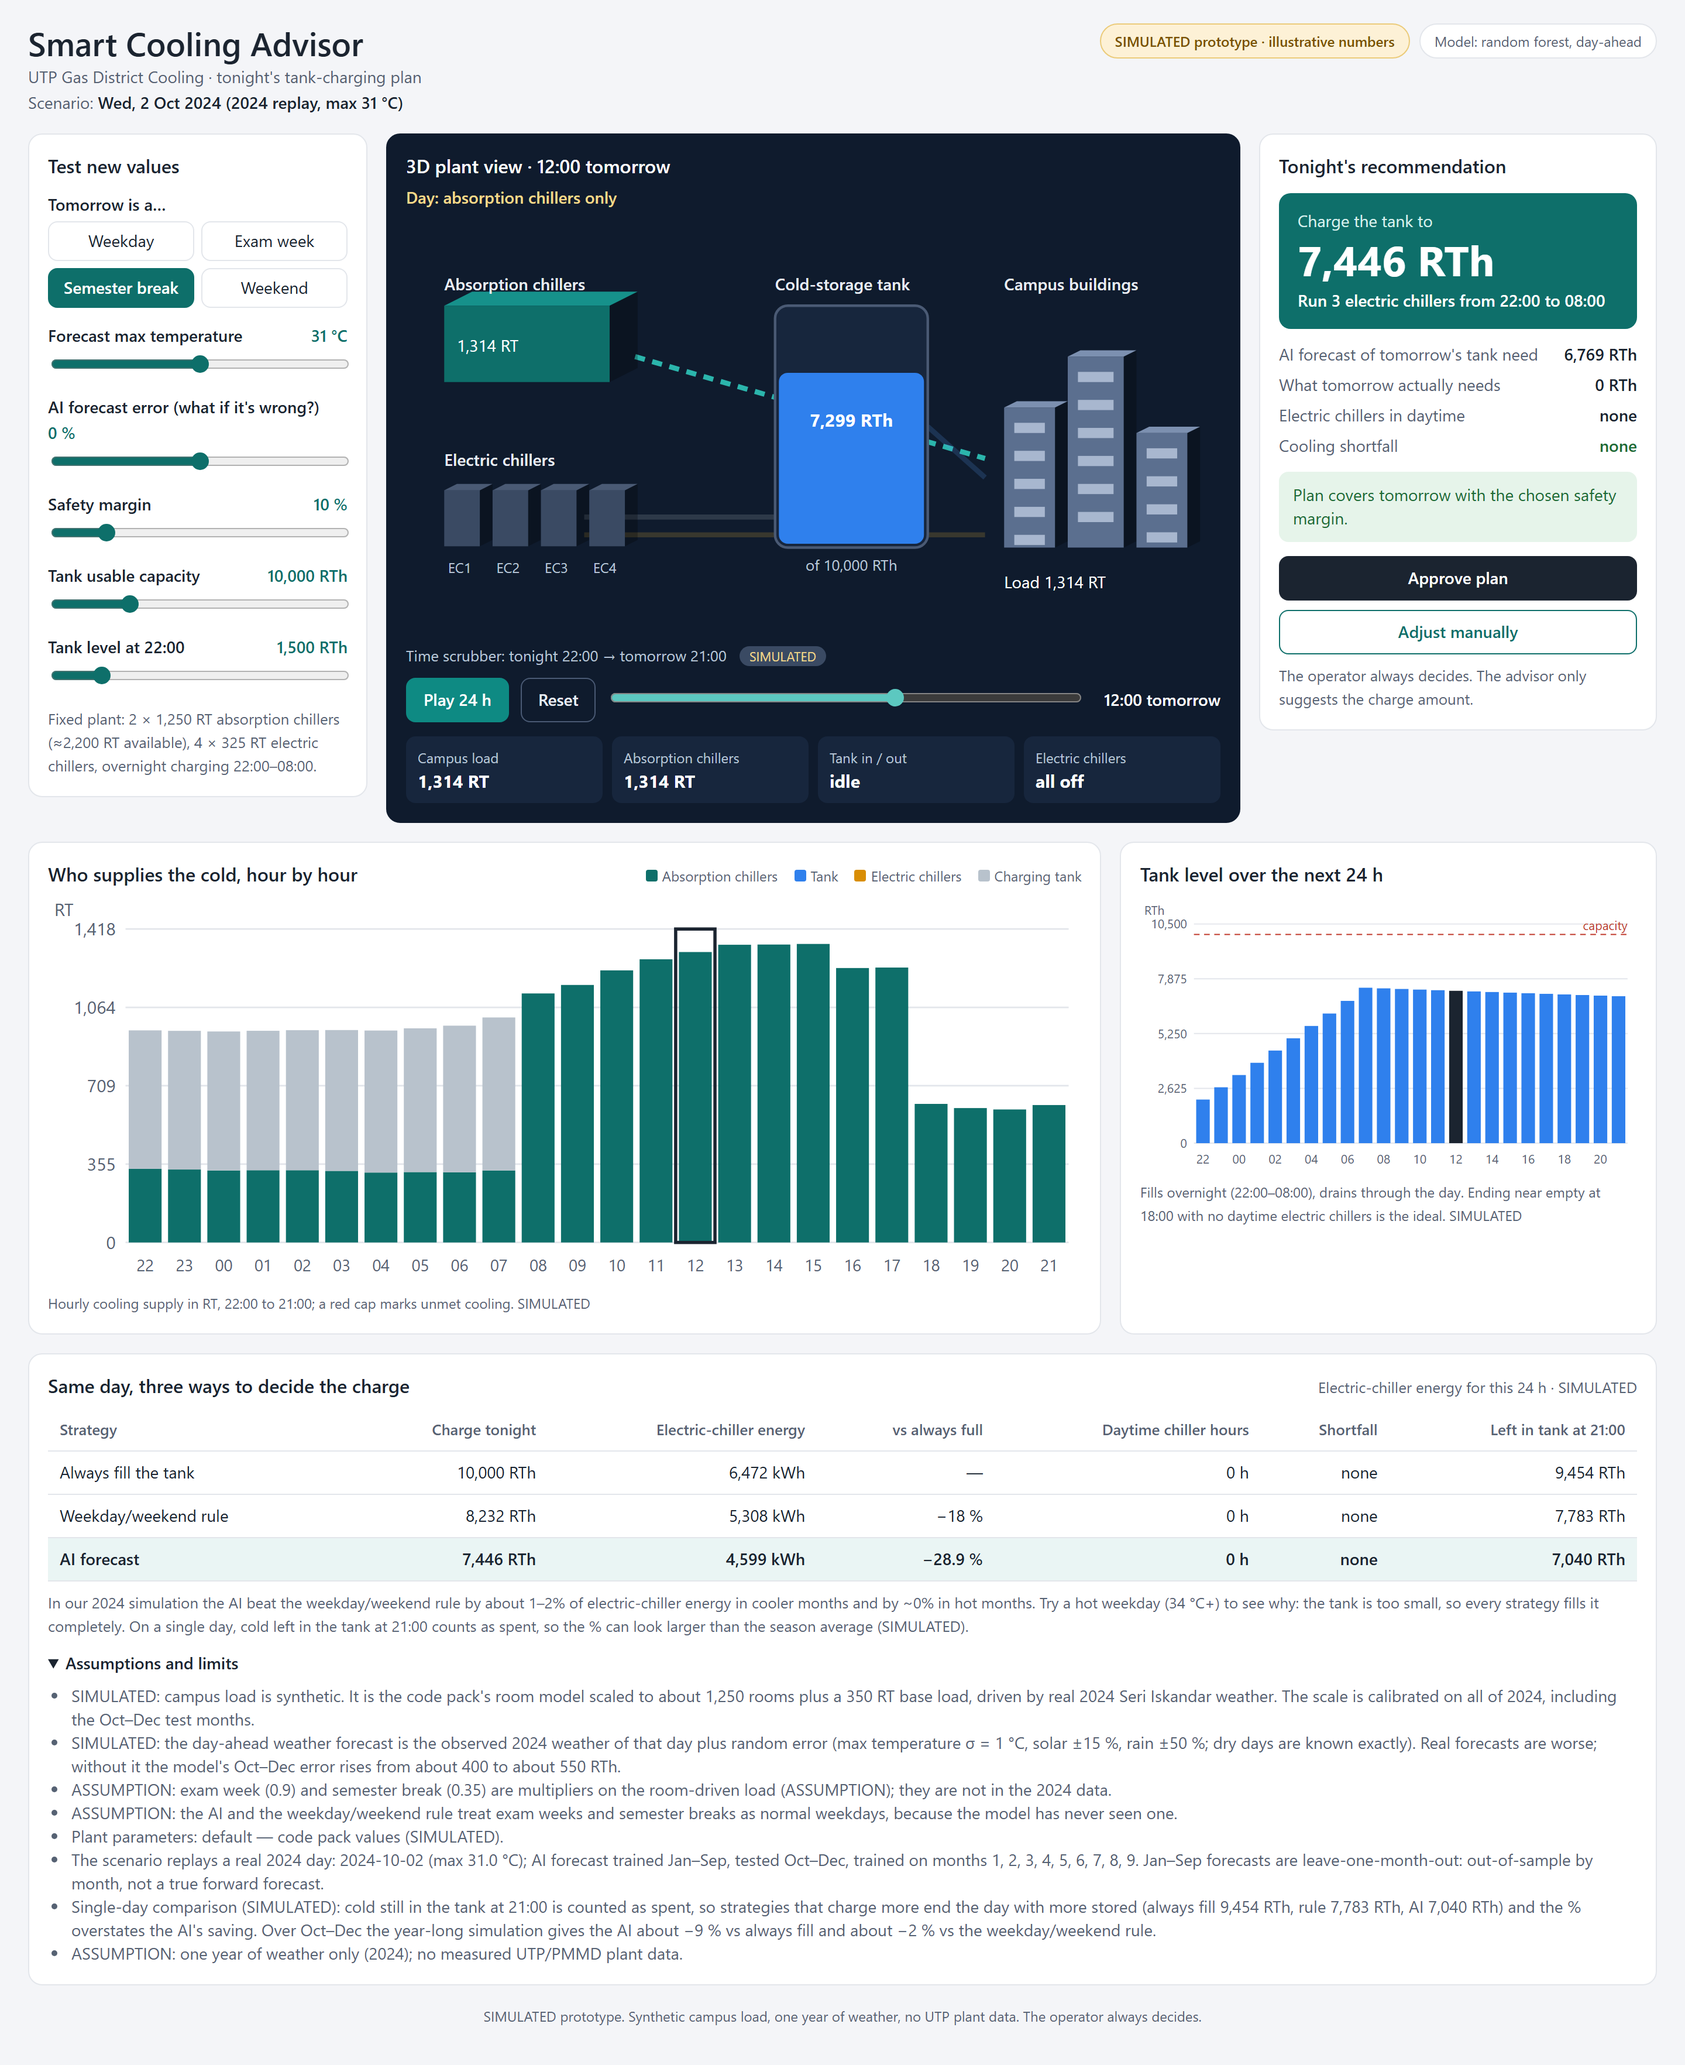
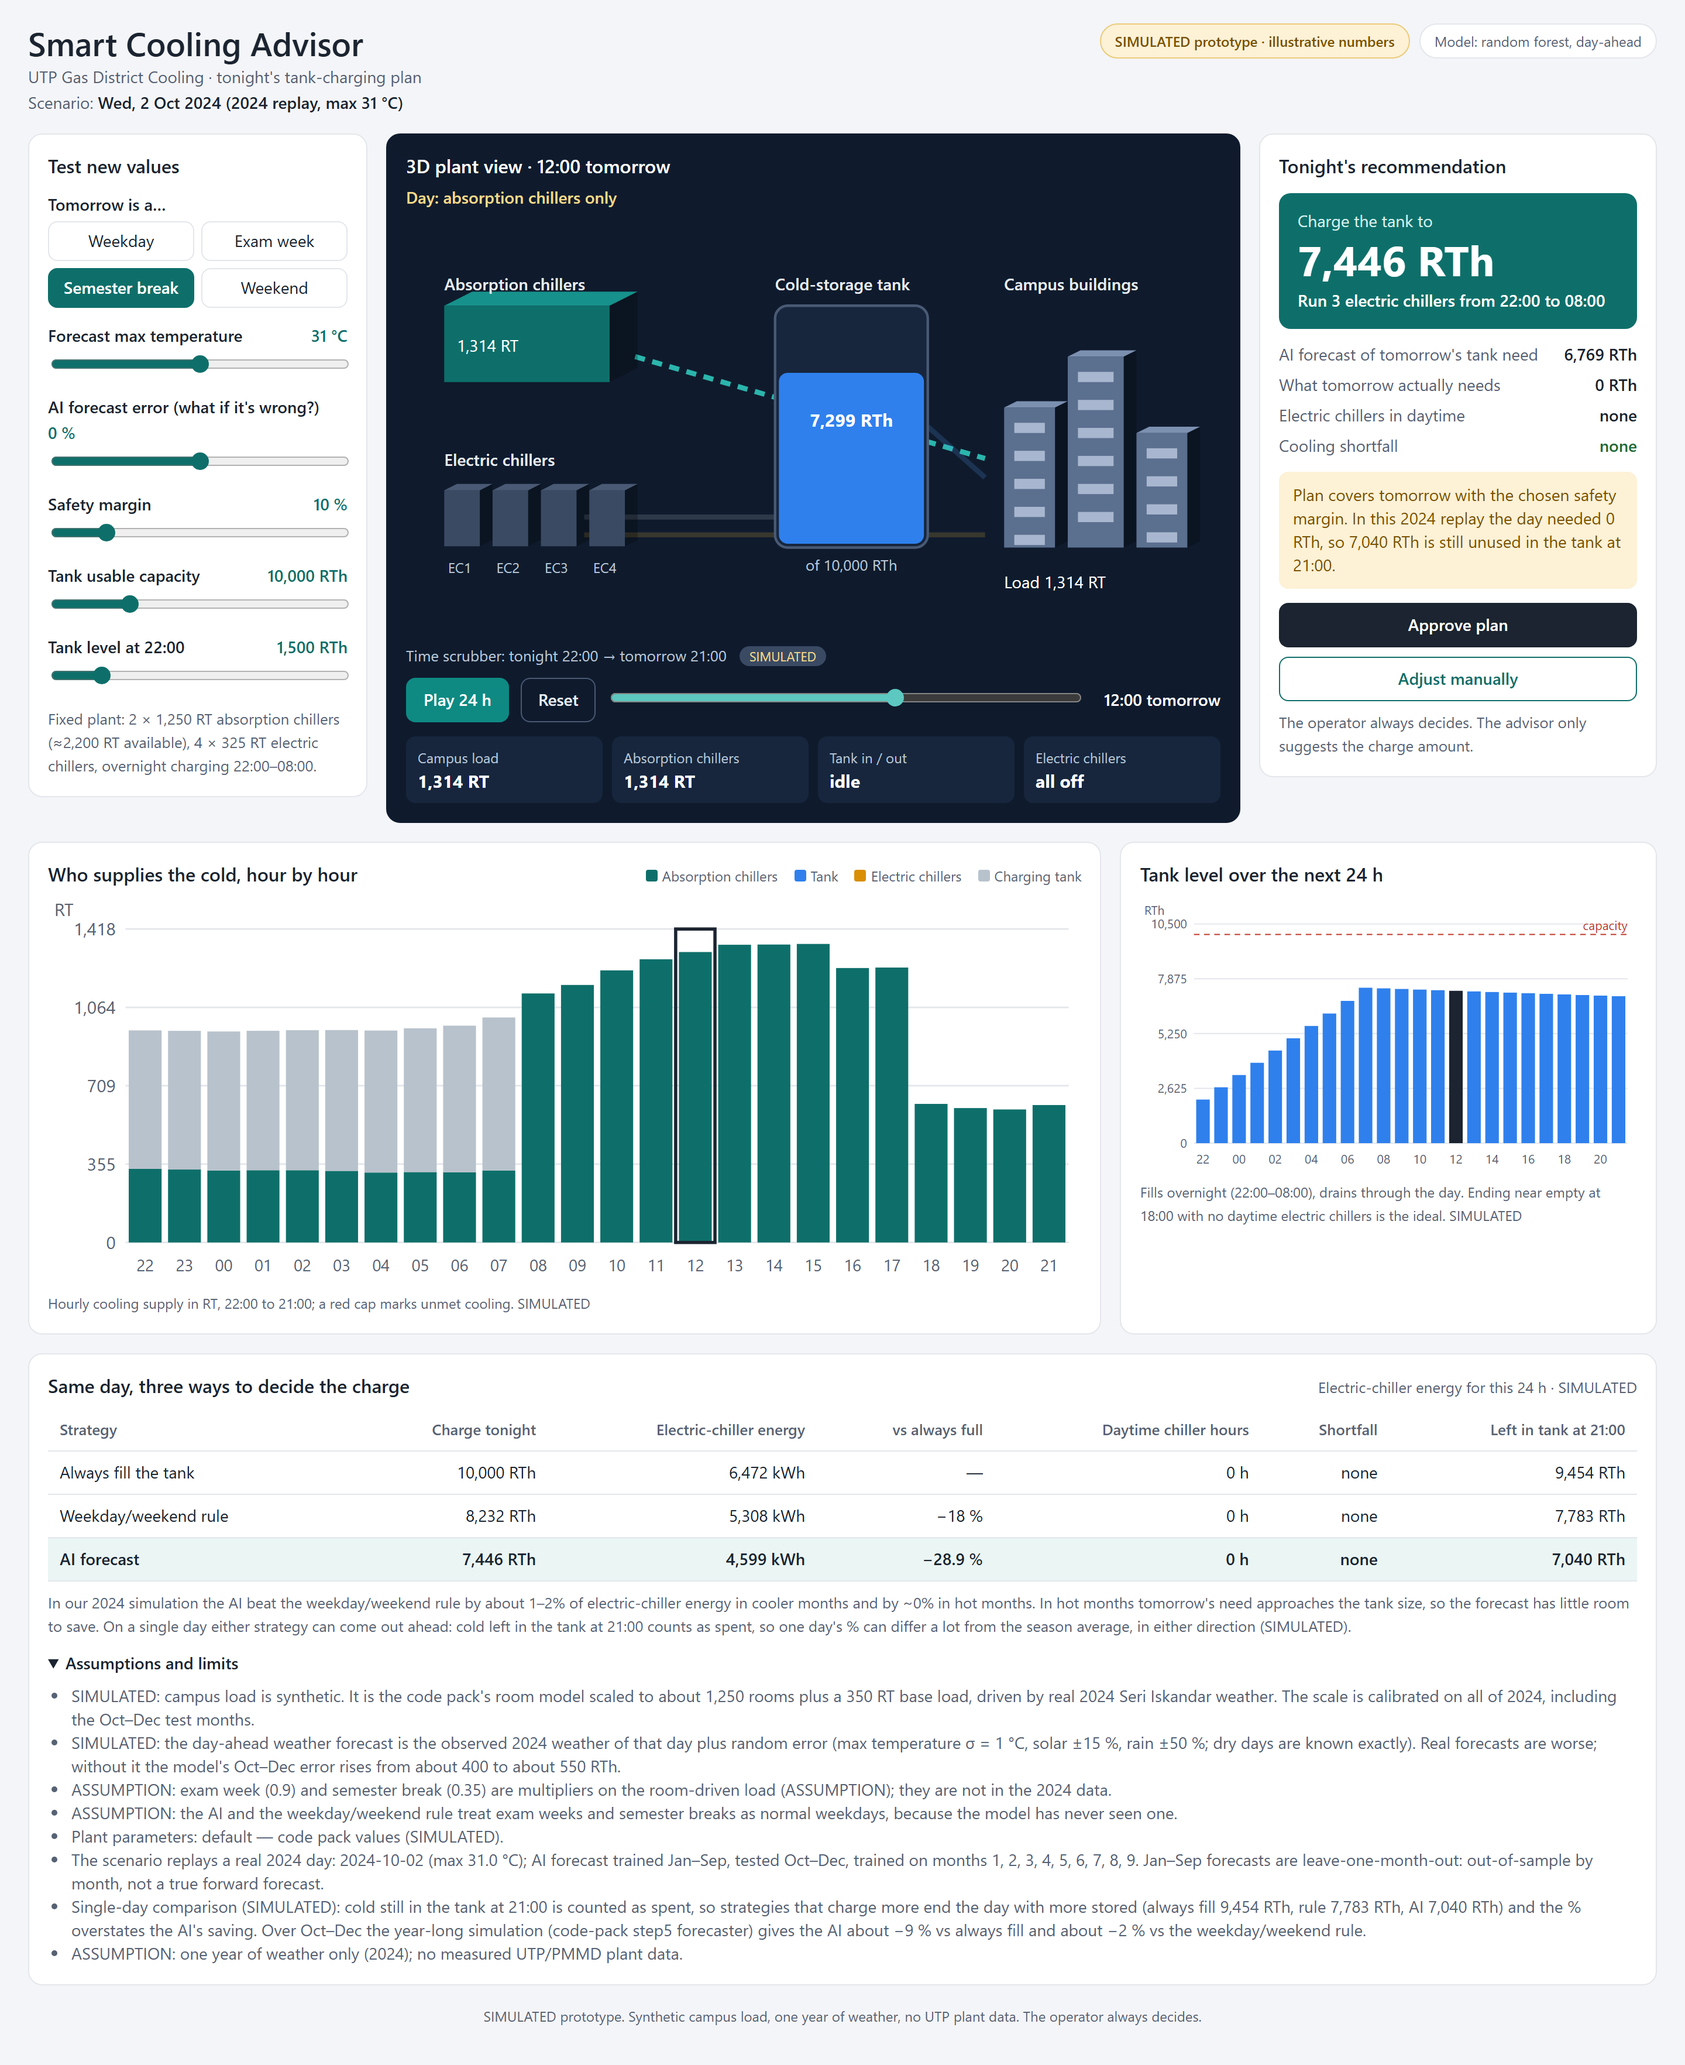
Final-review fixes: over-charge flag, honest hot-weekday copy, pinned deps, test hardening

Changed region(s): [[0.75, 0.2494, 0.9688, 0.3741], [0.9062, 0.7483, 0.9375, 0.7795], [0.5312, 0.7795, 0.5625, 0.8107]]

diff --git a/static/index.html b/static/index.html
@@ -128,7 +128,7 @@
       <tbody></tbody>
     </table>
   </div>
-  <p class="note" id="table-note">In our 2024 simulation the AI beat the weekday/weekend rule by about 1&ndash;2% of electric-chiller energy in cooler months and by ~0% in hot months. Try a hot weekday (34 &deg;C+) to see why: the tank is too small, so every strategy fills it completely. On a single day, cold left in the tank at 21:00 counts as spent, so the % can look larger than the season average (SIMULATED).</p>
+  <p class="note" id="table-note">In our 2024 simulation the AI beat the weekday/weekend rule by about 1&ndash;2% of electric-chiller energy in cooler months and by ~0% in hot months. In hot months tomorrow's need approaches the tank size, so the forecast has little room to save. On a single day either strategy can come out ahead: cold left in the tank at 21:00 counts as spent, so one day's % can differ a lot from the season average, in either direction (SIMULATED).</p>
   <details id="assumptions" open>
     <summary>Assumptions and limits</summary>
     <ul></ul>

diff --git a/static/app.js b/static/app.js
@@ -117,7 +117,7 @@
     note.textContent = "";
     let cls = "ok";
     if (r.shortfall_rth > 0 || r.status === "shortfall") cls = "bad";
-    else if (r.capped || r.daytime_ec_hours > 0) cls = "warn";
+    else if (r.capped || r.over_charged || r.daytime_ec_hours > 0) cls = "warn";
     note.className = `status ${cls}`;
     if (cls === "bad") {
       const icon = document.createElement("span");

diff --git a/app/recommend.py b/app/recommend.py
@@ -30,6 +30,10 @@ def _num(x: float, round_values: bool) -> float:
     return round(float(x), 1) if round_values else float(x)
 
 
+def _over_charged(left_21: float, reached: float) -> bool:
+    return left_21 > max(1000.0, 0.25 * reached)
+
+
 def _message(
     status: str,
     cap: float,
@@ -38,6 +42,8 @@ def _message(
     daytime_ec_hours: int,
     target: float,
     reached: float,
+    actual: float,
+    left_21: float,
 ) -> str:
     n = daytime_ec_hours
     hours = f"{n} daytime hour{'s' if n != 1 else ''}"
@@ -58,6 +64,11 @@ def _message(
         msg = "Plan covers tomorrow with the chosen safety margin."
     if target - reached > 1:
         msg += f" Chillers can only charge the tank to {reached:,.0f} RTh by 08:00."
+    if status != "shortfall" and _over_charged(left_21, reached):
+        msg += (
+            f" In this 2024 replay the day needed {actual:,.0f} RTh, so {left_21:,.0f} RTh "
+            "is still unused in the tank at 21:00."
+        )
     return msg
 
 
@@ -95,8 +106,8 @@ def _assumptions(sc, preset: str, levels: dict) -> list[str]:
             "spent, so strategies that charge more end the day with more stored (always fill "
             f"{levels['always_full']:,.0f} RTh, rule {levels['calendar_rule']:,.0f} RTh, "
             f"AI {levels['ai_forecast']:,.0f} RTh) and the % overstates the AI's saving. "
-            "Over Oct–Dec the year-long simulation gives the AI about −9 % vs always fill "
-            "and about −2 % vs the weekday/weekend rule."
+            "Over Oct–Dec the year-long simulation (code-pack step5 forecaster) gives the AI "
+            "about −9 % vs always fill and about −2 % vs the weekday/weekend rule."
         ),
         ("ASSUMPTION: one year of weather only (2024); no measured UTP/PMMD plant data."),
     ]
@@ -148,6 +159,9 @@ def build_response(bank: DayBank, req: dict, base_params: dict, round_values: bo
     capped = bool(ai_used * (1 + mg) > cap)
     shortfall = ai_sum["shortfall_rth"]
     status = "shortfall" if shortfall > 1e-6 else "capped" if capped else "ok"
+    reached = float(ai_run["tank_level_rth"][9])
+    left_21 = float(ai_run["tank_level_rth"][-1])
+    over_charged = status != "shortfall" and _over_charged(left_21, reached)
 
     hourly = []
     for i, label in enumerate(HOUR_LABELS):
@@ -176,6 +190,7 @@ def build_response(bank: DayBank, req: dict, base_params: dict, round_values: bo
             "daytime_ec_hours": ai_sum["daytime_ec_hours"],
             "shortfall_rth": n(shortfall),
             "status": status,
+            "over_charged": bool(over_charged),
             "message": _message(
                 status,
                 cap,
@@ -183,7 +198,9 @@ def build_response(bank: DayBank, req: dict, base_params: dict, round_values: bo
                 capped,
                 ai_sum["daytime_ec_hours"],
                 ai_target,
-                float(ai_run["tank_level_rth"][9]),
+                reached,
+                sc.actual_need_rth,
+                left_21,
             ),
         },
         "hourly": hourly,

diff --git a/app/model.py b/app/model.py
@@ -29,8 +29,9 @@ def train_classifier(weather: pd.DataFrame) -> dict:
     data["target"] = data["target"].astype(int)
     train = data[data["month"] <= 9]
     test = data[data["month"] >= 10]
-    rf = RandomForestClassifier(n_estimators=300, min_samples_leaf=3,
-                                random_state=step1_model.RANDOM_STATE, n_jobs=-1)
+    rf = RandomForestClassifier(
+        n_estimators=300, min_samples_leaf=3, random_state=step1_model.RANDOM_STATE, n_jobs=-1
+    )
     rf.fit(train[CLASSIFIER_FEATURES], train["target"])
     pred = rf.predict(test[CLASSIFIER_FEATURES])
     return {
@@ -50,8 +51,9 @@ def load_hash(params: dict) -> str:
     return hashlib.sha1(payload.encode()).hexdigest()[:8]
 
 
-def campus_load_frame(weather: pd.DataFrame, params: dict,
-                      cache_dir: Path = DATA_DIR) -> pd.DataFrame:
+def campus_load_frame(
+    weather: pd.DataFrame, params: dict, cache_dir: Path = DATA_DIR
+) -> pd.DataFrame:
     """Hourly campus load (time, total_rt, base_rt, room_rt), cached as CSV by load hash."""
     path = Path(cache_dir) / f"campus_load_2024_{load_hash(params)}.csv"
     if path.exists():
@@ -63,12 +65,14 @@ def campus_load_frame(weather: pd.DataFrame, params: dict,
             pass  # corrupt or partial cache: fall through and rebuild
     total, _ = step5_plant.campus_load(weather, params)
     base = params["base_load_rt"] * (1 + 0.03 * (weather["temp"].to_numpy() - 27))
-    frame = pd.DataFrame({
-        "time": weather["time"].to_numpy(),
-        "total_rt": total,
-        "base_rt": base,
-        "room_rt": total - base,
-    })
+    frame = pd.DataFrame(
+        {
+            "time": weather["time"].to_numpy(),
+            "total_rt": total,
+            "base_rt": base,
+            "room_rt": total - base,
+        }
+    )
     path.parent.mkdir(parents=True, exist_ok=True)
     tmp = path.with_name(f"{path.name}.{os.getpid()}.tmp")
     try:
@@ -106,8 +110,9 @@ def _window_22h(values: np.ndarray, times: pd.Series, how: str) -> pd.Series:
     return agg
 
 
-def build_features(g: pd.DataFrame, weather: pd.DataFrame, total_rt: np.ndarray,
-                   seed: int = 0) -> pd.DataFrame:
+def build_features(
+    g: pd.DataFrame, weather: pd.DataFrame, total_rt: np.ndarray, seed: int = 0
+) -> pd.DataFrame:
     """Features for forecasting day D at 22:00 on D-1 (mirrors step5 forecasts(), Xw set).
 
     Deviation from step5: load/tmean/himax/rain use the 24 h window 22:00 D-2..21:00 D-1, not the
@@ -170,5 +175,6 @@ def train_forecasters(g: pd.DataFrame, X: pd.DataFrame) -> DailyForecasts:
     fit_predict(TRAINING_MONTHS_OCT_DEC, ok & (month >= 10))
     for m in range(1, 10):
         fit_predict([k for k in range(1, 10) if k != m], ok & (month == m))
-    return DailyForecasts(ai=ai, calendar=calendar, training_months=training_months,
-                          eligible=g.index[ok])
+    return DailyForecasts(
+        ai=ai, calendar=calendar, training_months=training_months, eligible=g.index[ok]
+    )

diff --git a/tests/test_model_step1.py b/tests/test_model_step1.py
@@ -21,13 +21,19 @@ def test_classifier_trained_jan_sep_scores_oct_dec():
 def test_no_classifier_feature_uses_t_plus_3_or_later():
     w = model.load_weather()
     assert len(w) == 8784
-    assert "target" not in model.CLASSIFIER_FEATURES and "cls_ahead" not in model.CLASSIFIER_FEATURES
+    assert (
+        "target" not in model.CLASSIFIER_FEATURES and "cls_ahead" not in model.CLASSIFIER_FEATURES
+    )
     # every feature at row t equals a value computed from row t alone: perturb rows t+1.. and recompute
     w2 = w.copy()
     w2.loc[100:, ["temp", "rh", "cloud", "sw_rad", "wind", "rain"]] += 5.0
     from app.legacy import step1_model as s1
+
     cols = ["time", "temp", "rh", "cloud", "sw_rad", "wind", "rain"]
     f1 = s1.add_features(w[cols])
     f2 = s1.add_features(w2[cols])
-    assert (f1.loc[:99, model.CLASSIFIER_FEATURES].values == f2.loc[:99, model.CLASSIFIER_FEATURES].values).all()
+    assert (
+        f1.loc[:99, model.CLASSIFIER_FEATURES].values
+        == f2.loc[:99, model.CLASSIFIER_FEATURES].values
+    ).all()
     assert (f1["target"].iloc[:97] == f1["cls"].shift(-3).iloc[:97]).all()  # target is exactly t+3

diff --git a/tests/test_api.py b/tests/test_api.py
@@ -66,14 +66,26 @@ def test_root_serves_html(client):
 
 
 @pytest.mark.slow
+def _check_finite(node, path):
+    if isinstance(node, dict):
+        for k, v in node.items():
+            _check_finite(v, f"{path}.{k}")
+    elif isinstance(node, list):
+        for i, v in enumerate(node):
+            _check_finite(v, f"{path}[{i}]")
+    elif node is None:
+        assert path.endswith(".vs_always_full_pct"), f"unexpected None at {path}"
+    elif isinstance(node, (int, float)) and not isinstance(node, bool):
+        assert math.isfinite(node), f"non-finite at {path}"
+
+
 def test_sweep_all_inputs_finite(client):
     for dt in ["weekday", "exam_week", "semester_break", "weekend"]:
         for t in np.arange(24, 38.01, 0.5):
             j = client.post(
                 "/recommend", json={"day_type": dt, "forecast_max_temp_c": float(t)}
             ).json()
-            nums = [v for h in j["hourly"] for v in h.values() if isinstance(v, (int, float))]
-            assert all(math.isfinite(v) for v in nums)
+            _check_finite(j, "$")
 
 
 def test_cold_start_under_60s(tmp_path):

diff --git a/tests/test_forecasters.py b/tests/test_forecasters.py
@@ -23,7 +23,11 @@ def fx():
 def test_every_feature_has_provenance_and_none_is_same_day_observed(fx):
     assert list(fx.X.columns) == list(model.FEATURE_PROVENANCE)
     assert set(model.FEATURE_PROVENANCE.values()) <= {
-        "observed_lag1", "observed_lag7", "calendar", "simulated_dayahead"}
+        "observed_lag1",
+        "observed_lag7",
+        "calendar",
+        "simulated_dayahead",
+    }
 
 
 def _rebuild(fx, w2, rt2):
@@ -37,7 +41,9 @@ def _perturb(fx, hours, day):
     sel = (w2["time"].dt.normalize() == day) & w2["time"].dt.hour.isin(hours)
     w2.loc[sel, ["temp", "rh", "rain"]] += 5
     rt2[sel.values] += 5
-    return step1_model.add_features(w2.drop(columns=["hi", "cls", "hour", "month", "weekday", "target"])), rt2
+    return step1_model.add_features(
+        w2.drop(columns=["hi", "cls", "hour", "month", "weekday", "target"])
+    ), rt2
 
 
 def test_features_use_only_hours_before_22h_of_previous_day(fx):

diff --git a/tests/test_recommend.py b/tests/test_recommend.py
@@ -128,3 +128,16 @@ def test_message_shortfall(utp_bank):
     assert rec["status"] == "shortfall" and rec["shortfall_rth"] > 0
     assert rec["shortfall_rth"] == pytest.approx(sum(h["unmet_rt"] for h in r["hourly"]))
     assert "even with all electric chillers running" in rec["message"]
+
+
+def test_semester_break_over_charge_is_flagged(bank):
+    rec = run(bank, day_type="semester_break")["recommendation"]
+    assert "unused" in rec["message"]
+    assert rec["over_charged"] is True
+
+
+@pytest.mark.parametrize("temp", [31.0, 34.0])
+def test_weekday_not_flagged_over_charged(bank, temp):
+    rec = run(bank, forecast_max_temp_c=temp)["recommendation"]
+    assert "unused" not in rec["message"]
+    assert rec["over_charged"] is False

diff --git a/tests/test_scenario.py b/tests/test_scenario.py
@@ -52,4 +52,6 @@ def test_multiplier_scales_room_part_only_and_forecast_unscaled(bank, P):
 
 def test_actual_need_matches_step5_daily_table_for_weekday(bank, P):
     s = scenario.build_scenario(bank, "weekday", 31.0, P)
-    assert s.actual_need_rth == pytest.approx(bank.daily.loc[pd.Timestamp(s.source_date), "need_rth"])
+    assert s.actual_need_rth == pytest.approx(
+        bank.daily.loc[pd.Timestamp(s.source_date), "need_rth"]
+    )

diff --git a/scripts/screenshots.py b/scripts/screenshots.py
@@ -25,6 +25,7 @@ def wait_ready(proc):
     while time.time() < deadline:
         try:
             urllib.request.urlopen(f"{BASE}/health", timeout=2)
+            assert proc.poll() is None, "our uvicorn died; a stale server may own the port"
             return
         except OSError:
             if proc.poll() is not None:

diff --git a/tests/test_frontend_e2e.py b/tests/test_frontend_e2e.py
@@ -43,6 +43,7 @@ def server():
                 time.sleep(0.5)
         else:
             raise RuntimeError("server did not become ready in 60 s")
+        assert proc.poll() is None, "our uvicorn died; a stale server may own the port"
         yield BASE
     finally:
         proc.terminate()

diff --git a/app/legacy/__init__.py b/app/legacy/__init__.py
@@ -8,8 +8,8 @@ import sys
 from pathlib import Path
 
 SCS_DIR = Path(__file__).resolve().parents[2] / "scs"
-if sys.path[0] != str(SCS_DIR):
-    sys.path.insert(0, str(SCS_DIR))
+if str(SCS_DIR) not in sys.path:
+    sys.path.append(str(SCS_DIR))
 
 import step1_model
 import step2_simulate
